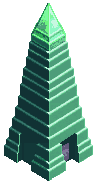
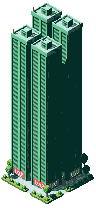
feat(carte): la megalopole — compounds residentiels et ilots d immeubles identiques
Retour Raph : « de vrais tours d habitation, des grosses megalopoles
d immeubles tel cyberpunk, ou ce qu on voit en Chine ». Deux reponses :
- arcologyhome-cosmic 7/8/9 : les pyramides remplacees par des COMPOUNDS —
  trois barres d appartements jumelles sur podium a enseignes neon, fenetres
  en rangees serrees, clim et antennes en toiture (7,1-7,4 t, 3/4 coin-en-avant)
- tirage par ILOTS aux bandes 7+ (BLOCK_Q=3, buildingGenerator) : tout un pate
  porte le meme variant — la ville se lit en rangees d immeubles identiques,
  plus en bric-a-brac. Avant la bande 7, tirage historique inchange.

diff --git a/src/game/map/procedural/buildingGenerator.js b/src/game/map/procedural/buildingGenerator.js
@@ -152,6 +152,13 @@ export function createBuildingPlacer({
   const SUPER_SLOTS = new Set([0, 12]);
   const SUPER_DIST = 10;
   const supers = new Map();
+  // ÎLOTS UNIFORMES aux bandes cosmiques (Raph 2026-08-03 : « de grosses
+  // mégalopoles d'immeubles tel cyberpunk, ou ce qu'on voit en Chine ») : le
+  // tirage est quantifié par pâté de BLOCK_Q×BLOCK_Q cellules — tout un îlot
+  // porte le MÊME variant et se lit en rangées d'immeubles identiques, pas en
+  // bric-à-brac. Les teintes suivent déjà : les skins cosmiques n'en ont pas
+  // (houseTintOf les exclut). Avant la bande 7, tirage historique inchangé.
+  const BLOCK_Q = 3;
 
   const chooseVariant = (category, n, cell) => {
     if (category === "house" && counts.eraBand >= 7 && SUPER_SLOTS.has(n)) {
@@ -165,6 +172,10 @@ export function createBuildingPlacer({
       }
     }
     const list = variantList(VARIANTS_HOUSE, counts.eraBand, bias);
+    if (counts.eraBand >= 7) {
+      const hq = hashString(seed + ":" + category + ":q" + Math.floor(cell.gx / BLOCK_Q) + ":" + Math.floor(cell.gy / BLOCK_Q));
+      return list[hq % list.length];
+    }
     const h = hashString(seed + ":" + category + ":" + cell.gx + ":" + cell.gy);
     return list[(n + h) % list.length];
   };
